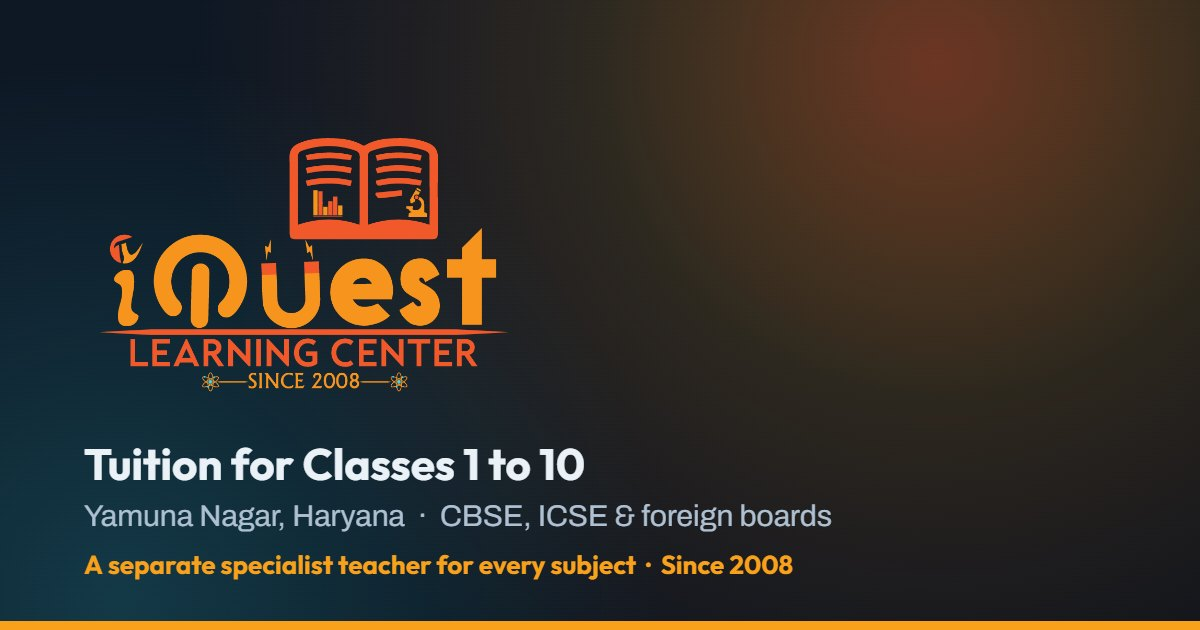
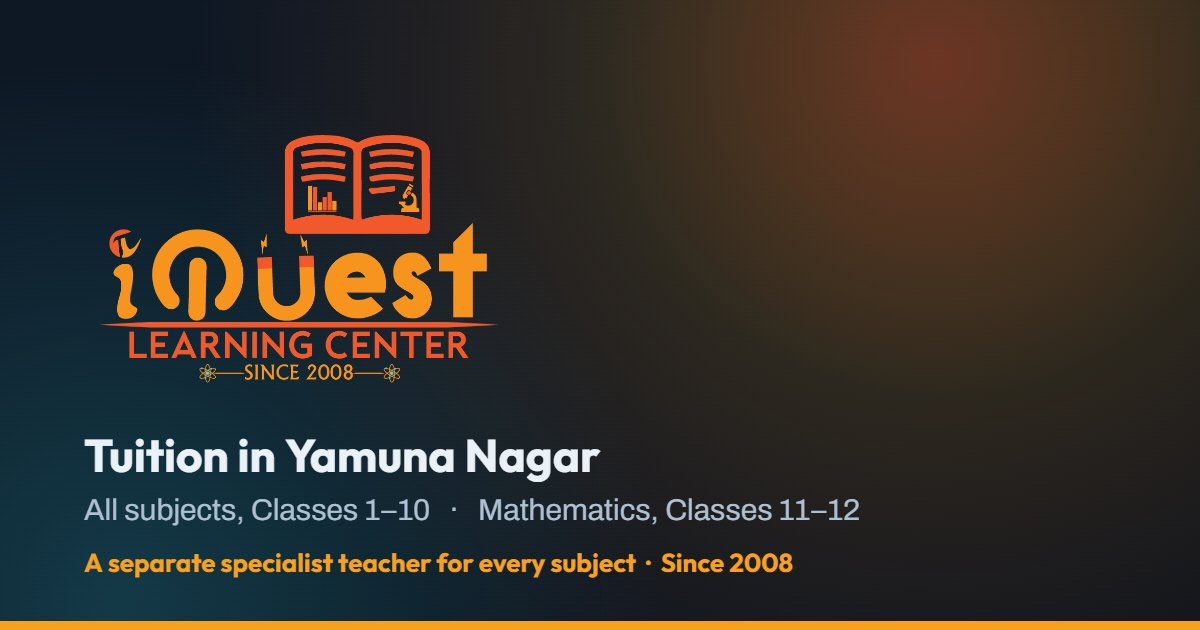
Add Classes 11-12 Mathematics across the site
All subjects for Classes 1-10 stays as it was; Classes 11 and 12 are Mathematics
only, and are now stated that way everywhere rather than folded into a bare
"Classes 1-12" claim.

Updated: title, meta and social descriptions, the schema description and FAQ,
the hero, the counter, a new programmes row and filter chip, the class options
in both forms, the timetable footnote, the footer, and the share image.

Changed region(s): [[0.0925, 0.2111, 0.4317, 0.6333], [0.0617, 0.6937, 0.7092, 0.8444], [0.0617, 0.8746, 0.6783, 0.9349]]

diff --git a/index.html b/index.html
@@ -4,8 +4,8 @@
 <meta charset="utf-8">
 <script>document.documentElement.classList.add("js")</script>
 <meta name="viewport" content="width=device-width, initial-scale=1">
-<title>iQuest Learning Center — Tuition in Yamuna Nagar | Classes 1–10</title>
-<meta name="description" content="Tuition in Yamuna Nagar for Classes 1–10, with a separate specialist teacher for every subject. CBSE, ICSE, IGCSE, IB. Open Mon–Sat 3:30–8 PM. Call 98967 16957.">
+<title>iQuest Learning Center — Tuition in Yamuna Nagar, Classes 1–12</title>
+<meta name="description" content="Tuition in Yamuna Nagar: all subjects for Classes 1–10, and Mathematics for Classes 11–12. CBSE, ICSE, IGCSE, IB. Open Mon–Sat 3:30–8 PM. Call 98967 16957.">
 <meta name="theme-color" content="#0E1825">
 <meta name="format-detection" content="telephone=yes">
 <meta name="author" content="iQuest Learning Center">
@@ -21,18 +21,18 @@
 
 <meta property="og:type" content="website">
 <meta property="og:site_name" content="iQuest Learning Center">
-<meta property="og:title" content="iQuest Learning Center — Tuition in Yamuna Nagar, Classes 1–10">
-<meta property="og:description" content="A separate specialist teacher for every subject, across eight classrooms. CBSE, ICSE, IGCSE and IB. Open Mon–Sat, 3:30–8 PM. Call 98967 16957.">
+<meta property="og:title" content="iQuest Learning Center — Tuition in Yamuna Nagar, Classes 1–12">
+<meta property="og:description" content="All subjects for Classes 1–10 and Mathematics for Classes 11–12, with a separate specialist teacher for every subject. Open Mon–Sat, 3:30–8 PM.">
 <meta property="og:locale" content="en_IN">
 <meta property="og:url" content="https://iquest1.vercel.app/">
 <meta property="og:image" content="https://iquest1.vercel.app/assets/img/og.jpg">
 <meta property="og:image:width" content="1200">
 <meta property="og:image:height" content="630">
-<meta property="og:image:alt" content="iQuest Learning Center — tuition for Classes 1 to 10 in Yamuna Nagar, Haryana">
+<meta property="og:image:alt" content="iQuest Learning Center — tuition for Classes 1 to 12 in Yamuna Nagar, Haryana">
 
 <meta name="twitter:card" content="summary_large_image">
-<meta name="twitter:title" content="iQuest Learning Center — Tuition in Yamuna Nagar, Classes 1–10">
-<meta name="twitter:description" content="A separate specialist teacher for every subject, across eight classrooms. CBSE, ICSE, IGCSE and IB. Open Mon–Sat, 3:30–8 PM.">
+<meta name="twitter:title" content="iQuest Learning Center — Tuition in Yamuna Nagar, Classes 1–12">
+<meta name="twitter:description" content="All subjects for Classes 1–10 and Mathematics for Classes 11–12, with a separate specialist teacher for every subject. Open Mon–Sat, 3:30–8 PM.">
 <meta name="twitter:image" content="https://iquest1.vercel.app/assets/img/og.jpg">
 
 <link rel="preconnect" href="https://fonts.googleapis.com">
@@ -40,7 +40,7 @@
 <link rel="stylesheet" href="https://fonts.googleapis.com/css2?family=Archivo:wght@400;500;600;700&family=Outfit:wght@500;600;700;800;900&display=swap">
 <!-- Bump ?v= whenever you edit the CSS or JS. It gives the file a new URL, so
      browsers and the CDN fetch it immediately instead of serving a cached copy. -->
-<link rel="stylesheet" href="assets/css/style.css?v=3">
+<link rel="stylesheet" href="assets/css/style.css?v=4">
 
 <script type="application/ld+json">
 {
@@ -52,7 +52,7 @@
       "name":"iQuest Learning Center",
       "alternateName":"iQuest Learning Center Yamuna Nagar",
       "slogan":"Since 2008, Yamuna Nagar's answer.",
-      "description":"Tuition centre in Yamuna Nagar for Classes 1 to 10. All subjects and competitive exam preparation, with a separate specialist teacher for every subject across 8 classrooms. CBSE, ICSE and foreign boards. Online classes for Classes 8 to 10.",
+      "description":"Tuition centre in Yamuna Nagar. All subjects and competitive exam preparation for Classes 1 to 10, and Mathematics for Classes 11 and 12, with a separate specialist teacher for every subject across 8 classrooms. CBSE, ICSE and foreign boards. Online classes for Classes 8 to 10.",
       "url":"https://iquest1.vercel.app/",
       "logo":"https://iquest1.vercel.app/assets/img/logo.png",
       "image":"https://iquest1.vercel.app/assets/img/og.jpg",
@@ -99,7 +99,7 @@
       "@id":"https://iquest1.vercel.app/#faq",
       "mainEntity":[
         {"@type":"Question","name":"Which classes does iQuest Learning Center teach?",
-         "acceptedAnswer":{"@type":"Answer","text":"Classes 1 to 10, all subjects, plus competitive exam preparation for Classes 1 to 10."}},
+         "acceptedAnswer":{"@type":"Answer","text":"All subjects for Classes 1 to 10, plus competitive exam preparation for Classes 1 to 10, and Mathematics for Classes 11 and 12."}},
         {"@type":"Question","name":"Which boards do you follow?",
          "acceptedAnswer":{"@type":"Answer","text":"CBSE, ICSE and foreign boards including IGCSE and IB."}},
         {"@type":"Question","name":"What are the class timings?",
@@ -271,8 +271,8 @@
       <h1 class="pull-words">Since 2008, Yamuna Nagar's <em>answer</em>.</h1>
 
       <p class="hero__lede" data-hero="3">
-        Tuition for Classes 1 to 10. All subjects and competitive exam preparation, with a
-        separate specialist teacher for every subject across eight classrooms.
+        All subjects for Classes 1 to 10, Mathematics for Classes 11 and 12, and competitive
+        exam preparation, with a separate specialist teacher for every subject across eight classrooms.
         CBSE, ICSE and foreign boards. Online classes for Classes 8 to 10.
       </p>
 
@@ -316,7 +316,7 @@
       <div class="band__cell" data-anim="snap"><span class="band__n" data-count="2008" data-plain>2008</span><span class="band__l">Teaching since</span></div>
       <div class="band__cell" data-anim="snap" style="--d:70ms"><span class="band__n" data-count="18">18</span><span class="band__l">Years in Yamuna Nagar</span></div>
       <div class="band__cell" data-anim="snap" style="--d:140ms"><span class="band__n" data-count="8">8</span><span class="band__l">Classrooms</span></div>
-      <div class="band__cell" data-anim="snap" style="--d:210ms"><span class="band__n"><span data-count="1">1</span><span class="u">–</span><span data-count="10">10</span></span><span class="band__l">Classes taught</span></div>
+      <div class="band__cell" data-anim="snap" style="--d:210ms"><span class="band__n"><span data-count="1">1</span><span class="u">–</span><span data-count="12">12</span></span><span class="band__l">Classes taught</span></div>
       <div class="band__cell" data-anim="snap" style="--d:280ms"><span class="band__n" data-count="5.0" data-dec="1">5.0</span><span class="band__l">Rated by 24 families</span></div>
     </div>
   </div>
@@ -394,6 +394,7 @@
       <button class="chip" type="button" aria-pressed="false" data-stage="a">Classes 1–5</button>
       <button class="chip" type="button" aria-pressed="false" data-stage="b">Classes 6–8</button>
       <button class="chip" type="button" aria-pressed="false" data-stage="c">Classes 9–10</button>
+      <button class="chip" type="button" aria-pressed="false" data-stage="e">Classes 11–12</button>
       <button class="chip" type="button" aria-pressed="false" data-stage="d">Competitive prep</button>
     </div>
 
@@ -425,7 +426,15 @@
         </div>
       </div>
 
-      <div class="plan__row" data-stage="d" data-anim="pull" style="--d:210ms">
+      <div class="plan__row" data-stage="e" data-anim="pull" style="--d:210ms">
+        <div class="plan__stage">Classes 11–12<small>Mathematics only</small></div>
+        <ul class="plan__subs"><li>Mathematics</li></ul>
+        <div class="plan__mode">
+          <span><svg><use href="#i-door"/></svg> In centre</span>
+        </div>
+      </div>
+
+      <div class="plan__row" data-stage="d" data-anim="pull" style="--d:280ms">
         <div class="plan__stage">Competitive prep<small>Classes 1–10</small></div>
         <ul class="plan__subs"><li>Olympiads</li><li>Scholarship &amp; entrance tests</li><li>School selection tests</li><li>Mental maths</li></ul>
         <div class="plan__mode">
@@ -560,7 +569,7 @@
     </blockquote>
 
     <p class="tt__foot" data-anim="pull">
-      Timetables for Classes 1–6 are set at admission, around your child's school hours.
+      Timetables for Classes 1–6, and for Classes 11–12 Mathematics, are set at admission around your child's school hours.
       <a class="linkish" href="tel:+919896716957">Call us and we will tell you the batch <svg><use href="#i-arrow"/></svg></a>
     </p>
   </div>
@@ -785,6 +794,7 @@
             <option>Class 1</option><option>Class 2</option><option>Class 3</option><option>Class 4</option>
             <option>Class 5</option><option>Class 6</option><option>Class 7</option><option>Class 8</option>
             <option>Class 9</option><option>Class 10</option>
+            <option>Class 11 (Maths)</option><option>Class 12 (Maths)</option>
             <option>Competitive exam prep</option>
           </select>
         </div>
@@ -830,7 +840,7 @@
         <a class="brand" href="#top" aria-label="iQuest Learning Center">
           <img class="brand__mark" src="assets/img/logo.png" alt="iQuest Learning Center" width="842" height="595" loading="lazy">
         </a>
-        <p>Since 2008, Yamuna Nagar's answer. Tuition for Classes 1 to 10, with a separate specialist teacher for every subject.</p>
+        <p>Since 2008, Yamuna Nagar's answer. All subjects for Classes 1 to 10, Mathematics for Classes 11 and 12.</p>
       </div>
 
       <div class="foot__col">
@@ -880,6 +890,6 @@
 
 </div><!-- /#app -->
 
-<script src="assets/js/main.js?v=3" defer></script>
+<script src="assets/js/main.js?v=4" defer></script>
 </body>
 </html>

diff --git a/form.html b/form.html
@@ -4,7 +4,7 @@
 <meta charset="utf-8">
 <meta name="viewport" content="width=device-width, initial-scale=1">
 <title>Enquire — iQuest Learning Center, Yamuna Nagar</title>
-<meta name="description" content="Send an enquiry to iQuest Learning Center, Yamuna Nagar. Tuition for Classes 1 to 10. Call +91 98967 16957 or message us on WhatsApp.">
+<meta name="description" content="Send an enquiry to iQuest Learning Center, Yamuna Nagar. All subjects for Classes 1 to 10, Mathematics for Classes 11 and 12. Call +91 98967 16957 or message us on WhatsApp.">
 <meta name="theme-color" content="#0E1825">
 <meta name="format-detection" content="telephone=yes">
 <meta name="robots" content="noindex">
@@ -232,7 +232,9 @@ input,textarea,select{caret-color:var(--amber)}
           <option value="">Select a class</option>
           <option>Class 1</option><option>Class 2</option><option>Class 3</option><option>Class 4</option>
           <option>Class 5</option><option>Class 6</option><option>Class 7</option><option>Class 8</option>
-          <option>Class 9</option><option>Class 10</option><option>Competitive exam prep</option>
+          <option>Class 9</option><option>Class 10</option>
+          <option>Class 11 (Maths)</option><option>Class 12 (Maths)</option>
+          <option>Competitive exam prep</option>
         </select>
       </div>
       <div class="field">

diff --git a/README.md b/README.md
@@ -196,7 +196,7 @@ Everything stated on the site is sourced. Nothing was invented.
 | Established 2008 · 5.0 from 24 ratings | Justdial listing |
 | 8 classrooms · one teacher per subject · practice-based · structured notes · revision batches | Instagram [@i_quest_learning_center](https://www.instagram.com/i_quest_learning_center/) |
 | Class 7–10 timetables, period times, subjects, Punjabi, Mon–Sat | The centre's own signed timetable documents |
-| Classes 1–10, competitive prep, CBSE / ICSE / IGCSE / IB, online for Classes 8–10 | Confirmed by the client |
+| All subjects Classes 1–10, Mathematics Classes 11–12, competitive prep, CBSE / ICSE / IGCSE / IB, online for Classes 8–10 | Confirmed by the client |
 | Address, phone numbers, hours | Justdial + client |
 | Founder names, roles and degrees | Client |
 
